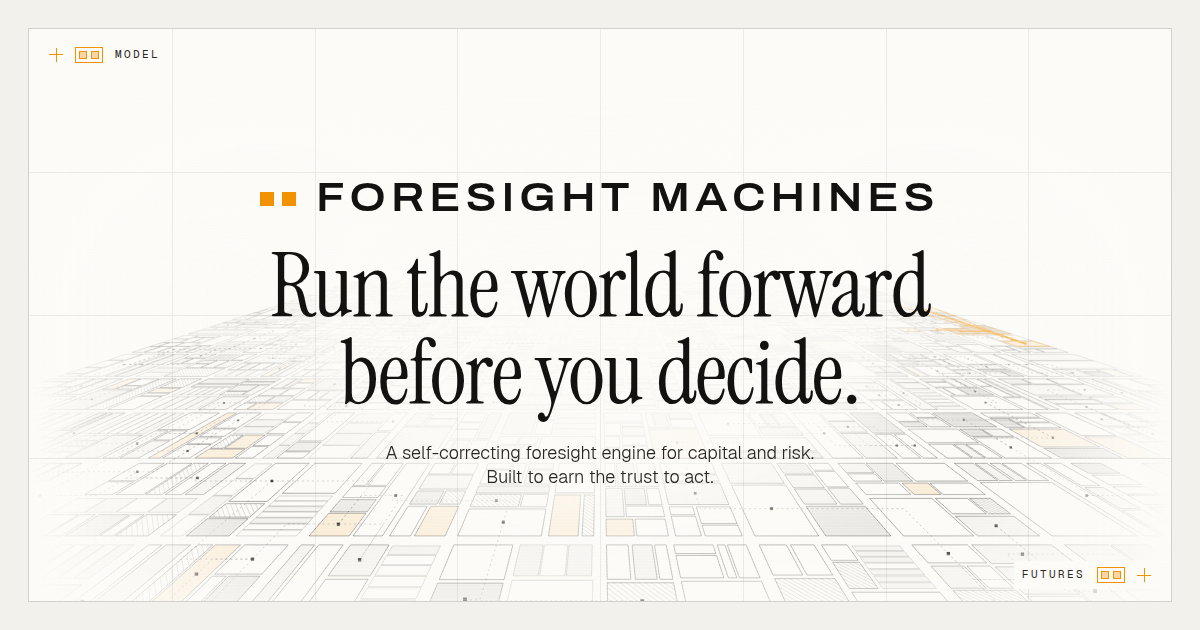
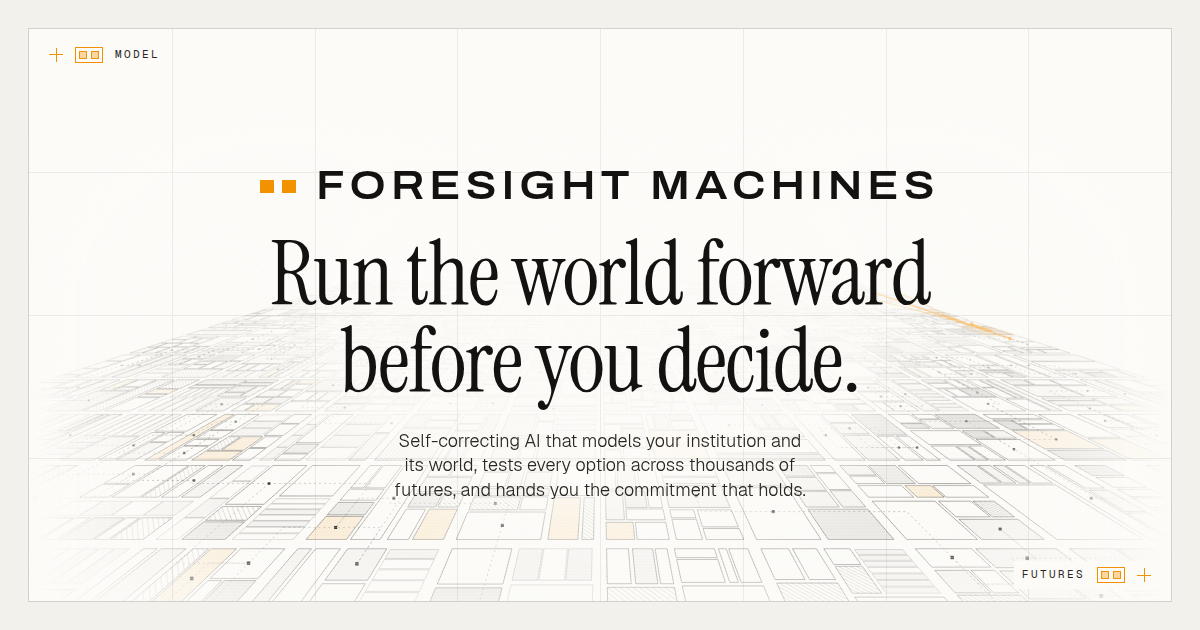
Hero: say what the machine does, in one sentence
"Self-correcting AI that models your institution and its world, tests
every option across thousands of futures, and hands you the commitment
that holds." replaces the two-line sub. The link preview image follows.

Claude-Session: https://claude.ai/code/session_01KJTweMhfZWuWexSYwMJPUu

diff --git a/index.html b/index.html
@@ -66,7 +66,7 @@
       <div class="hero__copy">
         <p class="hero__name"><span class="bar__squares" aria-hidden="true"><i></i><i></i></span>Foresight Machines</p>
         <h1 class="hero__line">Run the world forward before you&nbsp;decide.</h1>
-        <p class="hero__sub"><span>A self-correcting foresight engine for capital and risk.</span> <span>Built to earn the trust to act.</span></p>
+        <p class="hero__sub"><span>Self-correcting AI that models your institution and its world, tests every option across thousands of futures, and hands you the commitment that holds.</span></p>
         <a class="hero__next" href="#launch">Read the launch essay <span aria-hidden="true">↓</span></a>
       </div>
       <div class="hero__strip" aria-hidden="true" data-hero-lamps>
